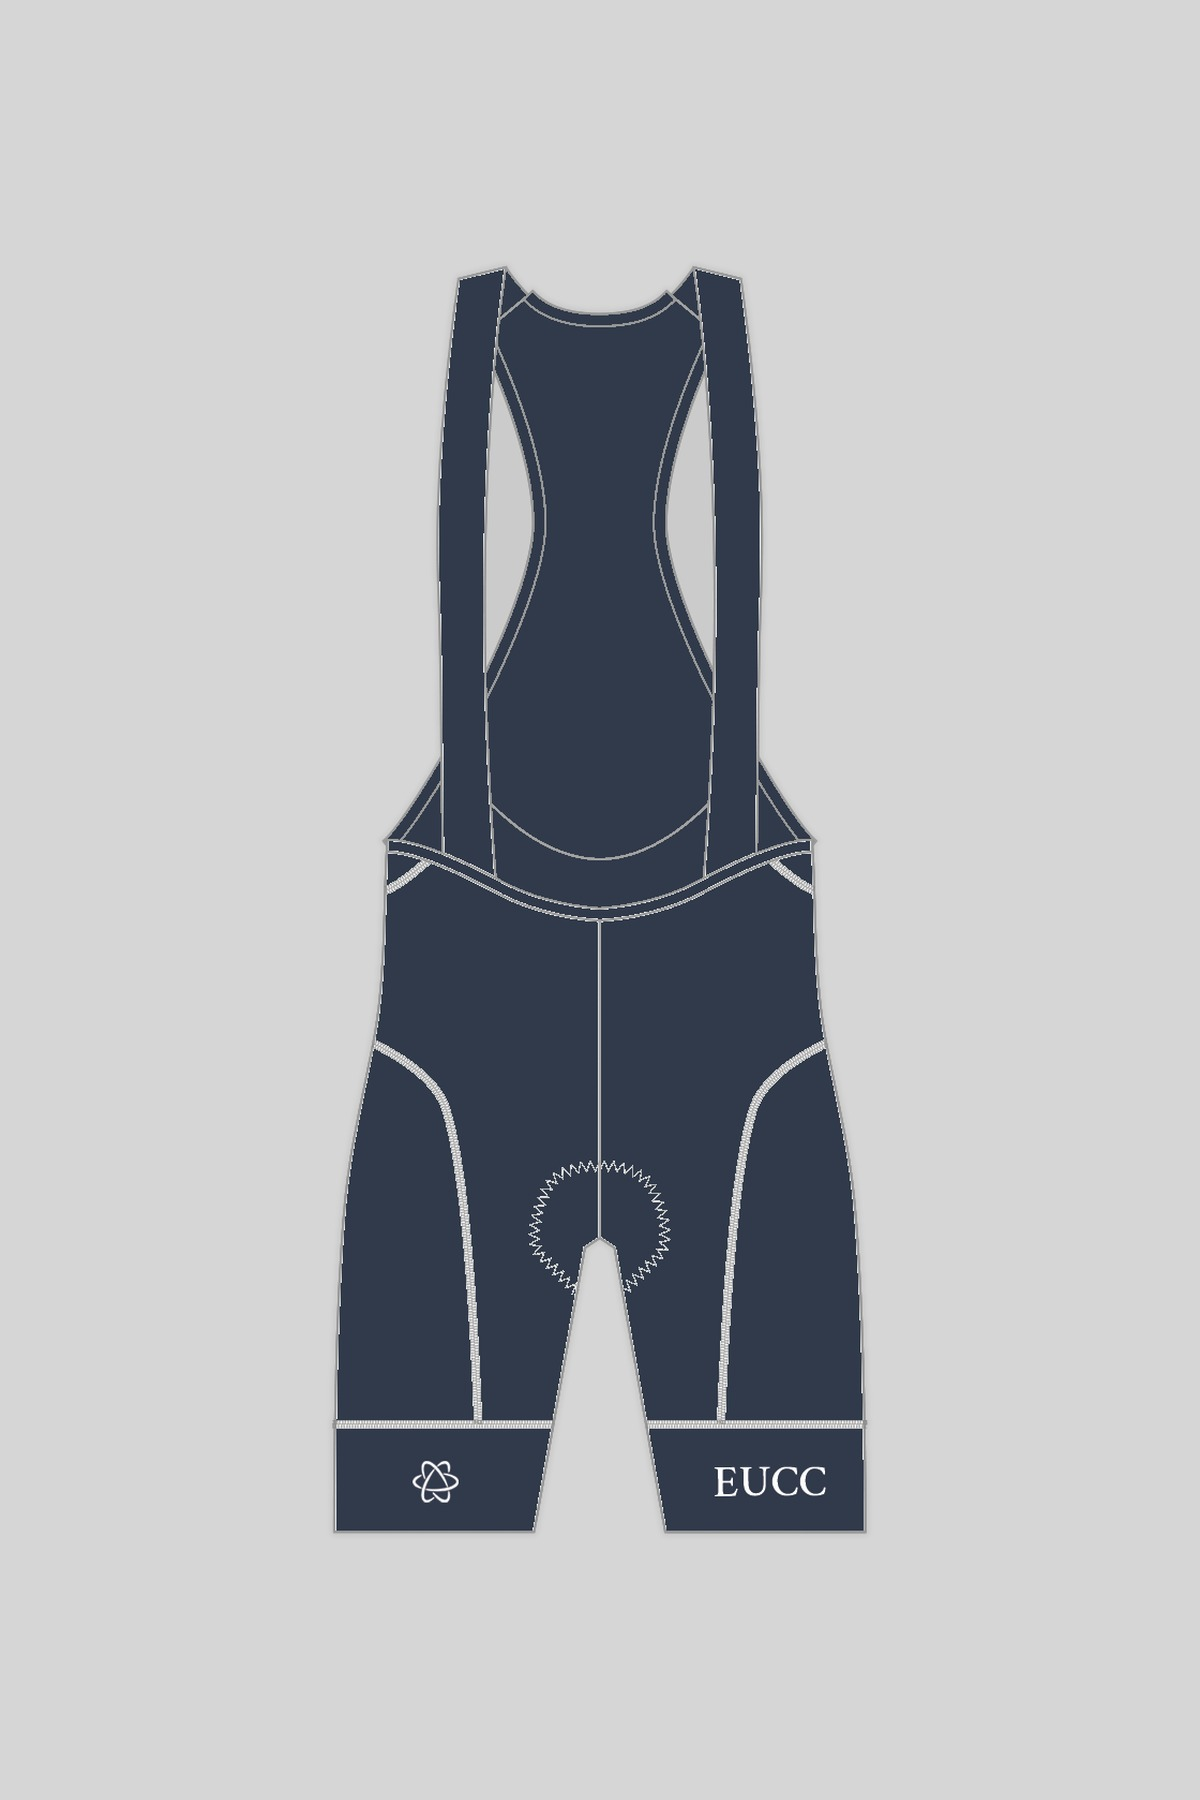
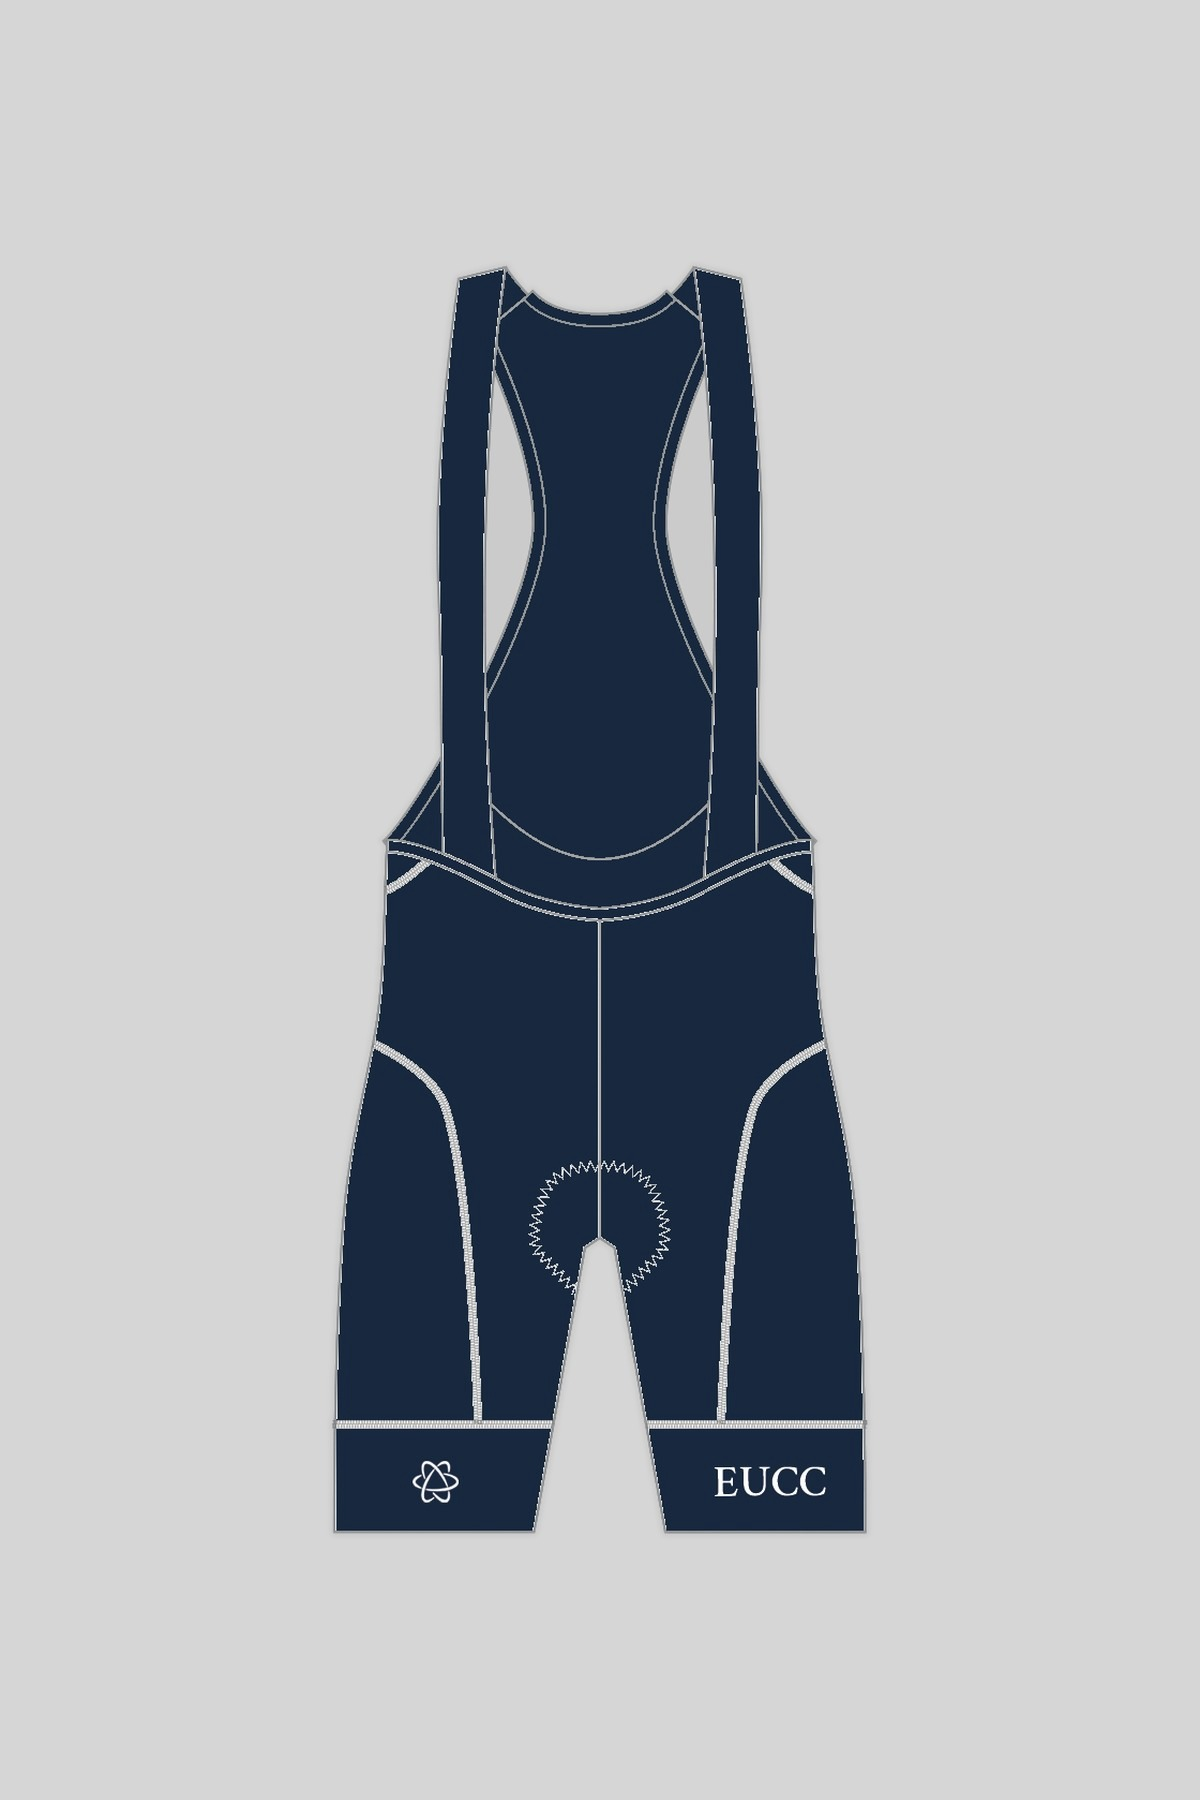
EUCC: match Club Bib Shorts render colour to Training Bib Shorts navy
Fabric shifted (49,58,75) → (24,40,63) with feathered darkness weighting;
logos/seams/background untouched. Refs bumped to ?v=2.

Changed region(s): [[0.2775, 0.1556, 0.74, 0.8711]]

diff --git a/data/clubs.ts b/data/clubs.ts
@@ -282,8 +282,8 @@ export const clubs: Club[] = [
         image: '/images/clubs/edinburgh-university-cycling-club/eucc-summer-gilet-red-front.jpg?v=2',
         customImages: ['/images/clubs/edinburgh-university-cycling-club/eucc-summer-gilet-red-back.jpg?v=2'] },
       { name: 'Club Bib Shorts', handle: 'club-bib-shorts', category: 'lower', price: '£59.00',
-        image: '/images/clubs/edinburgh-university-cycling-club/eucc-club-bib-shorts-front.jpg',
-        customImages: ['/images/clubs/edinburgh-university-cycling-club/eucc-club-bib-shorts-back.jpg'] },
+        image: '/images/clubs/edinburgh-university-cycling-club/eucc-club-bib-shorts-front.jpg?v=2',
+        customImages: ['/images/clubs/edinburgh-university-cycling-club/eucc-club-bib-shorts-back.jpg?v=2'] },
       { name: 'Navy Training Bib Shorts', handle: 'training-bib-shorts-navy', category: 'lower',
         catalogHandle: 'training-bib-shorts', variant: 'Navy', price: '£81.00',
         image: '/images/clubs/edinburgh-university-cycling-club/eucc-training-bib-shorts-navy-front.jpg?v=2',
